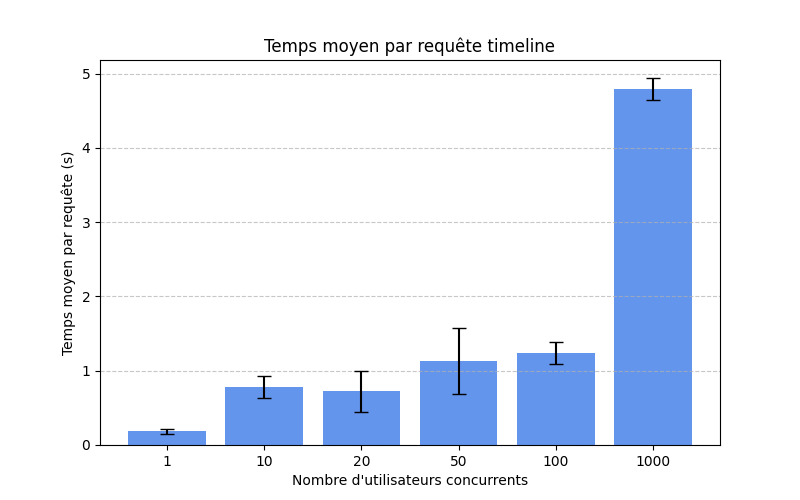
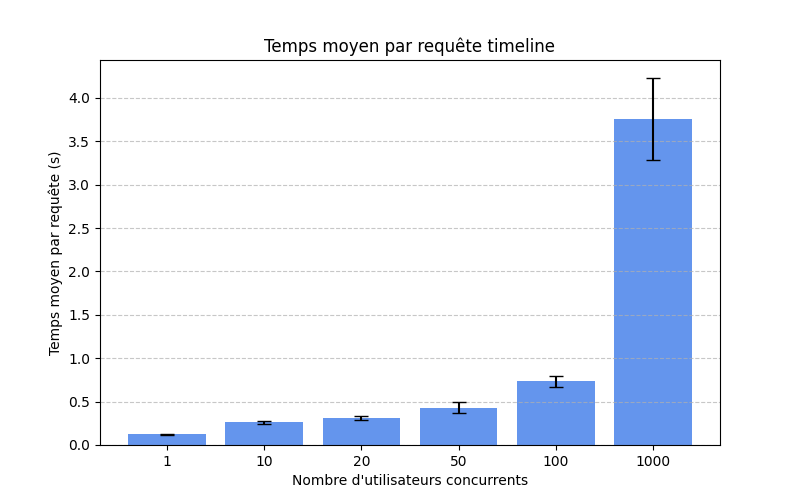
maj graphs + csv

diff --git a/graphiques.py b/graphiques.py
@@ -2,9 +2,9 @@ import pandas as pd
 import matplotlib.pyplot as plt
 import numpy as np
 
-data = pd.read_csv("conc.csv")  # Remplace "data.csv" par le nom de ton fichier
-#data = pd.read_csv("post.csv")
-#data = pd.read_csv("fanout.csv")
+#data = pd.read_csv("out/conc.csv")  # Remplace "data.csv" par le nom de ton fichier
+#data = pd.read_csv("out/post.csv")
+data = pd.read_csv("out/fanout.csv")
 
 
 stats = data.groupby('PARAM')['AVG_TIME'].agg(['mean', 'std']).reset_index()
@@ -14,9 +14,9 @@ plt.bar(stats['PARAM'].astype(str), stats['mean'], yerr=stats['std'], capsize=5,
 plt.xlabel("Nombre d'utilisateurs concurrents")
 #plt.xlabel("Nombre de post par user")
 #plt.xlabel("Nombre de followee")
-plt.ylabel("Temps moyen par requête (s)")
+#plt.ylabel("Temps moyen par requête (s)")
 #plt.title("Temps moyen par requête selon le nombre de posts")
-#plt.title("Temps moyen par requête selon le nombre de followee")
-plt.title("Temps moyen par requête timeline")
+plt.title("Temps moyen par requête selon le nombre de followee")
+#plt.title("Temps moyen par requête timeline")
 plt.grid(axis='y', linestyle='--', alpha=0.7)
 plt.show()
